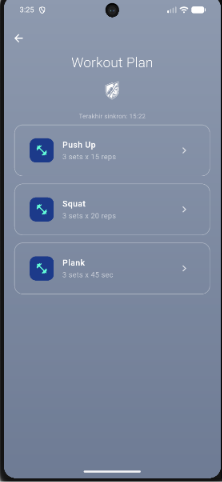
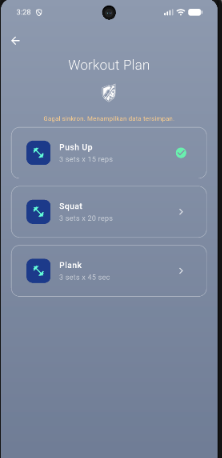
Swap screenshot names and finalize Task 9

diff --git a/mobile_app/lib/providers/auth_provider.dart b/mobile_app/lib/providers/auth_provider.dart
@@ -18,8 +18,9 @@ class AuthProvider extends ChangeNotifier {
   String? get errorMessage => _errorMessage;
 
   /// Dipanggil sekali saat app dibuka: kalau token masih ada, anggap sudah login.
-  Future<void> restoreSession() async {
+   Future<void> restoreSession() async {
     final token = await _secureStorage.readToken();
+    debugPrint('DEBUG restoreSession: token ada? ${token != null}');
     if (token != null) {
       _isLoggedIn = true;
       _username = await _secureStorage.readUsername();
@@ -43,8 +44,9 @@ class AuthProvider extends ChangeNotifier {
     }
   }
 
-  Future<void> logout() async {
+   Future<void> logout() async {
     await _secureStorage.clearSession();
+    debugPrint('DEBUG logout: token sudah dihapus');
     _isLoggedIn = false;
     _username = null;
     notifyListeners();
